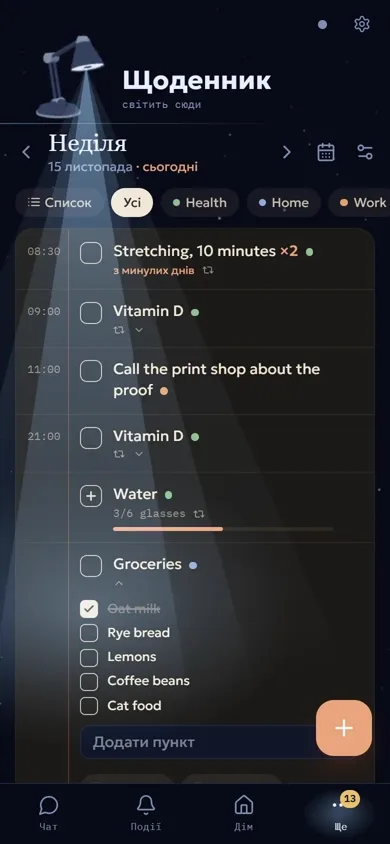
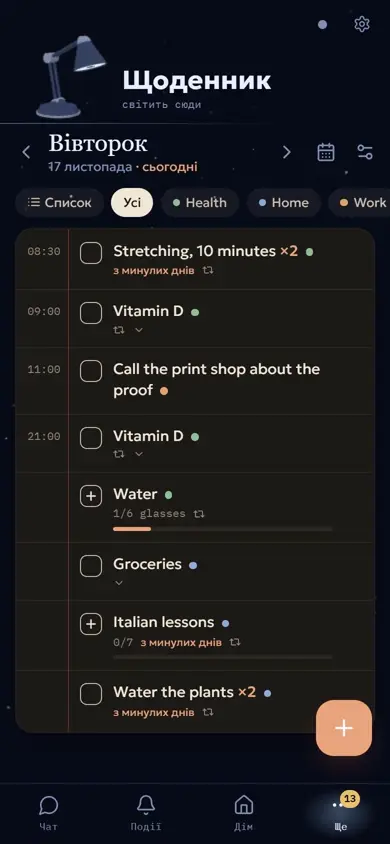
docs: ten screens, re-shot planner, tour from v9.23 (#2)
* docs: ten screens, re-shot planner, tour from v9.23

* docs: cleaner stills for finances and home

---------

diff --git a/README.md b/README.md
@@ -2,14 +2,21 @@
 
 A personal AI assistant that has run every day since April 2026: a Telegram bot, an Android app and a background agent on a self-hosted server. Single user, private code. This repository is the showcase: what it does and how it is built.
 
-![Nox v9: chat, server watchdog and planner](assets/tour.gif)
+![Nox v9: chat, events and planner](assets/tour.gif)
 
-<sub>Recorded from v9.14 with a fictional owner and seeded data. The interface is in Ukrainian, the language it is used in. Full clips: [new.btwstudio.dev/work/nox](https://new.btwstudio.dev/work/nox).</sub>
+<sub>Recorded from v9.23 with a fictional owner and seeded data. The interface is in Ukrainian, the language it is used in. Full clips of all ten screens: [new.btwstudio.dev/work/nox](https://new.btwstudio.dev/work/nox).</sub>
 
 | Chat | Events | Watchdog | Tasks and projects | Planner |
 |---|---|---|---|---|
 | ![Chat](assets/chat.webp) | ![Events](assets/events.webp) | ![Watchdog](assets/watchdog.webp) | ![Tasks](assets/tasks.webp) | ![Planner](assets/planner.webp) |
 | An answer with its steps and a result card | Signals grouped by source | One alert per outage, false alarms swallowed | Today, deadlines, progress | Counters, checklists, a study journal |
+
+| Finances | Home | Mail | News | Content |
+|---|---|---|---|---|
+| ![Finances](assets/money.webp) | ![Home](assets/home.webp) | ![Mail](assets/mail.webp) | ![News](assets/news.webp) | ![Content](assets/content.webp) |
+| Shared recurring payments, who pays, what is overdue | Power schedule, devices, server and model limits | What matters first, phishing quarantined with a reason | A feed by topic with a short summary | Drafts and scheduled posts for a channel |
+
+<sub>In the home, mail, news and content recordings the data comes from fictional responses, because the real sources are the owner's smart home, mailbox and channel.</sub>
 
 ## What it does
 
@@ -17,6 +24,10 @@ A personal AI assistant that has run every day since April 2026: a Telegram bot,
 - **Events instead of noise.** Incoming signals (client replies, accepted orders, server incidents) land as cards with one notification per batch, read items move to an archive.
 - **Self-monitoring.** A watchdog tracks the server and its services. One outage produces one alert, recovery is silent, and a narrow set of repairs (for example restarting a single named container) runs without a human.
 - **A weekly planner.** One day per screen: tasks, checklists, counters and a study journal. Unfinished items carry over by themselves and repeating ones accumulate instead of merging.
+- **Shared finances.** Recurring household payments with a payer, a due day and a monthly total; overdue items stand out and one tap marks a payment.
+- **Home.** Smart-home devices and scenes, a power-outage schedule checked against what the server and a charging dock actually observed.
+- **Mail triage.** Important messages first, newsletters folded away, phishing quarantined with the reason stated, reply drafts awaiting approval.
+- **News.** A feed by topic where every item has a short summary.
 - **Voice in.** Speech is transcribed locally on a GPU before it reaches the model.
 - **Content pipeline.** Drafting, scheduling and publishing posts to a Telegram channel.
 - **Updates without reinstalling.** The Android shell is rebuilt only when native code changes; the interface updates itself over the air.
@@ -42,7 +53,7 @@ flowchart LR
 - **Model access behind one module**, so the model or tier changes in one place.
 - **Dead features are switched off by list, then deleted.** A usage audit over the full history retired ten modules that nobody used.
 - **Side effects get a real smoke test.** Anything that sends a message, restarts a service or touches the server is exercised against the live system before it ships.
-- **Every release goes through a pull request**, 60 so far in the current repository.
+- **Every release goes through a pull request**, 70 so far in the current repository.
 
 ## Stack
 
